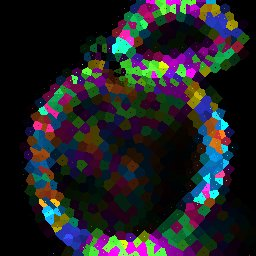
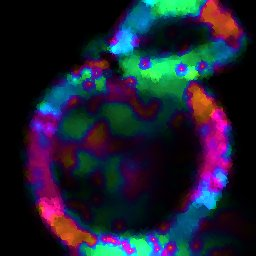
added rainbow motion vectors and outputs

diff --git a/vectorize.py b/vectorize.py
@@ -95,6 +95,7 @@ def blacknwhite(img_in,limit=32):
          img_out.set_at((x,y),color_out)
    return img_out
 
+import colorsys
 def get_median_color(img_in,pos,radius, mode = "g", borders=4):
    '''returns the median color of a circular area'''
    width = radius*2
@@ -142,6 +143,23 @@ def get_median_color(img_in,pos,radius, mode = "g", borders=4):
 
       contrast_color = [abs(prev_color[0]-next_color[0]), abs(prev_color[1]-next_color[1]),abs(prev_color[2]-next_color[2]) ]
 
+      prev_hsv = colorsys.rgb_to_hsv(prev_color[0],prev_color[1],prev_color[2])
+      next_hsv = colorsys.rgb_to_hsv(next_color[0],next_color[1],next_color[2])
+
+      hue_difference = abs(prev_hsv[0]-next_hsv[0])*360.0/(2*math.pi)
+
+      saturation_difference = abs(prev_hsv[1]-next_hsv[1])
+
+      if hue_difference>180:
+         hue_difference = 360-hue_difference
+
+      hue_difference = hue_difference*255/180 # normalize...
+      #print hue_difference, prev_hsv, next_hsv
+      #if saturation_difference>0:
+      #   print saturation_difference
+
+      contrast_color.append(hue_difference*saturation_difference)
+
    # brightness approach
 
    if mode == "g":
@@ -170,6 +188,7 @@ def median(img_in, radius, mode, borders):
          img_out.set_at((x,y),color_out)
          color_contrast = [max(color_contrast)]*3
          img_border.set_at((x,y),color_contrast)
+
    return img_out, img_border
 
 
@@ -455,12 +474,20 @@ def id_to_color(id):
    '''calculated unique color from id'''
    return (id%254+1,(id/254)%255,(id/254/255)%255)
 
+import colorsys
 def angle_to_color(angle,length=1):
    '''calculates color based on anlge'''
-   r = int(lcol( (math.sin(angle*2*math.pi/360)+1)*0.5*255*length ))
-   g = int(lcol( (math.sin((angle+120)*2*math.pi/360)+1)*0.5*255*length ))
-   b = int(lcol( (math.sin((angle+240)*2*math.pi/360)+1)*0.5*255*length ))
+
+   r,g,b = colorsys.hsv_to_rgb(angle/360.0 , length, length)
+   #print r,g,b
+   r = int(lcol( (math.sin(angle*2*math.pi/360.0)+1)*0.5*255*length ))
+   g = int(lcol( (math.sin((angle+120)*2*math.pi/360.0)+1)*0.5*255*length ))
+   b = int(lcol( (math.sin((angle+240)*2*math.pi/360.0)+1)*0.5*255*length ))
    return [r,g,b]
+
+   #print angle, r,g,b
+
+   return [lcol(r*255),lcol(g*255),lcol(b*255)]
 
 def color_to_id(color):
    '''calculated unique id from color'''
@@ -657,20 +684,70 @@ def edgewalk(img):
 
    return paths
 
+def anglecombiner(a1,a2):
 
-# for now returns the nearest vector. todo: interpolate 3 nearest points.
+
+   a1=a1%180
+   a2=a2%180
+
+   if abs(a1-a2)>180:
+      a2-=180
+
+   
+   return a1,a2
+
+
 def interpolate_motionvectors(motionvectors, position):
    '''interpolates the given motion vectors for a specified target position'''
+
+   dvpairs = [] # holds distance and vector pairs
 
    mindist = False
    minvec = False
    for v in motionvectors:
       x,y = v[0]
       distance = math.pow(math.pow(position[0]-x,2) + math.pow(position[1]-y,2),0.5)
+      dvpairs.append([distance, v])
 
       if not mindist or distance < mindist :
          mindist = distance
          minvec = v
+
+   sortedpairs = sorted(dvpairs, key=lambda  l:l[0])[:3] # first 3 values of ascending sorted list by distance
+
+   #print sortedpairs
+
+   if sortedpairs[0][0] == 0:
+      d1=9999
+   else:
+      d1 = 1/sortedpairs[0][0]
+   if sortedpairs[1][0] == 0:
+      d2=9999
+   else:
+      d2 = 1/sortedpairs[1][0]
+   if sortedpairs[2][0] == 0:
+      d3 = 9999
+   else:
+      d3 = 1/sortedpairs[2][0]
+   ang1 = sortedpairs[0][1][1]
+   ang2 = sortedpairs[1][1][1]
+   ang3 = sortedpairs[2][1][1]
+   rel1 = sortedpairs[0][1][-1]
+   rel2 = sortedpairs[1][1][-1]
+   rel3 = sortedpairs[2][1][-1]
+   
+   ang1,ang2 = anglecombiner(ang1,ang2)
+   ang2,ang3 = anglecombiner(ang2,ang3)
+   ang3,ang1 = anglecombiner(ang3,ang1)
+
+
+   avg_ang = (ang1*d1+ang2*d2+ang3*d3)/(d1+d2+d3)
+
+   avg_rel = (rel1*d1+rel2*d2+rel3*d3)/(d1+d2+d3)
+   
+
+   return [avg_ang, avg_rel]
+
 
    return minvec
 
@@ -678,12 +755,12 @@ def motionvector_rainbow(motionvectors,size):
    img = pygame.Surface(size)
    
    for y in range(0,size[1]):
-      cw("botionvector rainbow",y,size[1])
+      cw("motionvector rainbow",y,size[1])
       for x in range(0,size[0]):
          v = interpolate_motionvectors(motionvectors,(x,y))
-         angle = v[1]
+         angle = v[0]
          ampl = v[-1]
-         color = angle_to_color(angle,ampl)
+         color = angle_to_color(angle*2,ampl)
          img.set_at((x,y),color)
    return img
 
@@ -693,7 +770,7 @@ def facewalk(img_in, mask, motionvectors):
    mask_clone = pygame.Surface(mask.get_size())
    mask_clone.blit(mask,(0,0))
 
-   radius = 3
+   radius = 5
 
    paths = []
 
@@ -722,7 +799,7 @@ def facewalk(img_in, mask, motionvectors):
             break
          path.append(position)
          mask_clone.set_at(position,(0,0,0))
-         #pygame.draw.circle(img_clone, (0,0,0), position, radius, 0)
+         pygame.draw.circle(mask_clone, (0,0,0), position, radius-1, 0)
 
 
 
@@ -822,6 +899,7 @@ def main():
       pygame.init()
 
 
+
       # the idea is as follows:
       # 1. find/mark edges, because edges mark areas
 
@@ -842,6 +920,23 @@ def main():
  
       
       display = pygame.display.set_mode(dsize)
+
+
+      ### motion vector rainbow test
+      if True:
+         vectors = []
+         for y in range(0,500,50):
+             for x in range(0,500,50):
+                 vec = [[x,y],math.atan2(x-250,y-250)*360/math.pi,0,0,0,1]
+                 #vec = [[x,y],random.random()*360,0,0,0,1]
+                 vectors.append(vec)
+
+         motionvector_r = motionvector_rainbow(vectors,(500,500))
+         show_image(display, motionvector_r, True)
+         save_image(motionvector_r,"vectom-test.png")
+
+
+      ###
 
 
       show_image(display, img_in, False)
@@ -919,7 +1014,7 @@ def main():
             for point in polygon:
                if not lastpoint:
                   lastpoint = point
-               pygame.draw.circle(img_edgepath, (0,255,0),point, 3)
+               pygame.draw.circle(img_edgepath, (128,0,0),point, 2)
                pygame.draw.line(img_edgepath, (255,0,0), lastpoint, point, 1)
                lastpoint = point
 
@@ -1032,6 +1127,7 @@ def main():
       combv = []
       for motionvectors in motionvectorss:
          combv+=motionvectors
+      #print combv
       motionvector_r = motionvector_rainbow(combv,img_bnw.get_size())
       show_image(display, motionvector_r, True)
       save_image(motionvector_r,"vectom-"+sys.argv[1])
@@ -1041,23 +1137,25 @@ def main():
 
       # 6. generate strokes/hatching for each area. it is not necessary to know the area outline as polygon, just check the individual pixels
 
+
+      img_strokepath = pygame.Surface(img_in.get_size())
       strokepathss = []
+      #if False:
       for i in range(0,len(masks)):
          strokepaths = facewalk(img_in, masks[i], motionvectorss[i])
-         img_strokepath = pygame.Surface(img_in.get_size())
          for polygon in strokepaths:
             lastpoint = False
             if len(polygon)>1:
                for point in polygon:
                   if not lastpoint:
                      lastpoint = point
-                  pygame.draw.circle(img_strokepath, (0,255,0),point, 3)
-                  pygame.draw.line(img_strokepath, (255,0,0), lastpoint, point, 1)
+                  #pygame.draw.circle(img_strokepath, (0,255,0),point, 3)
+                  pygame.draw.line(img_strokepath, avgcolors[i], lastpoint, point, 1)
                   lastpoint = point
          strokepathss.append(strokepaths)
 
-         show_image(display, img_strokepath, True)
-         save_image(img_strokepath,"fpath-"+sys.argv[1])
+      show_image(display, img_strokepath, True)
+      save_image(img_strokepath,"fpath-"+sys.argv[1])
 
 
       # todo.
